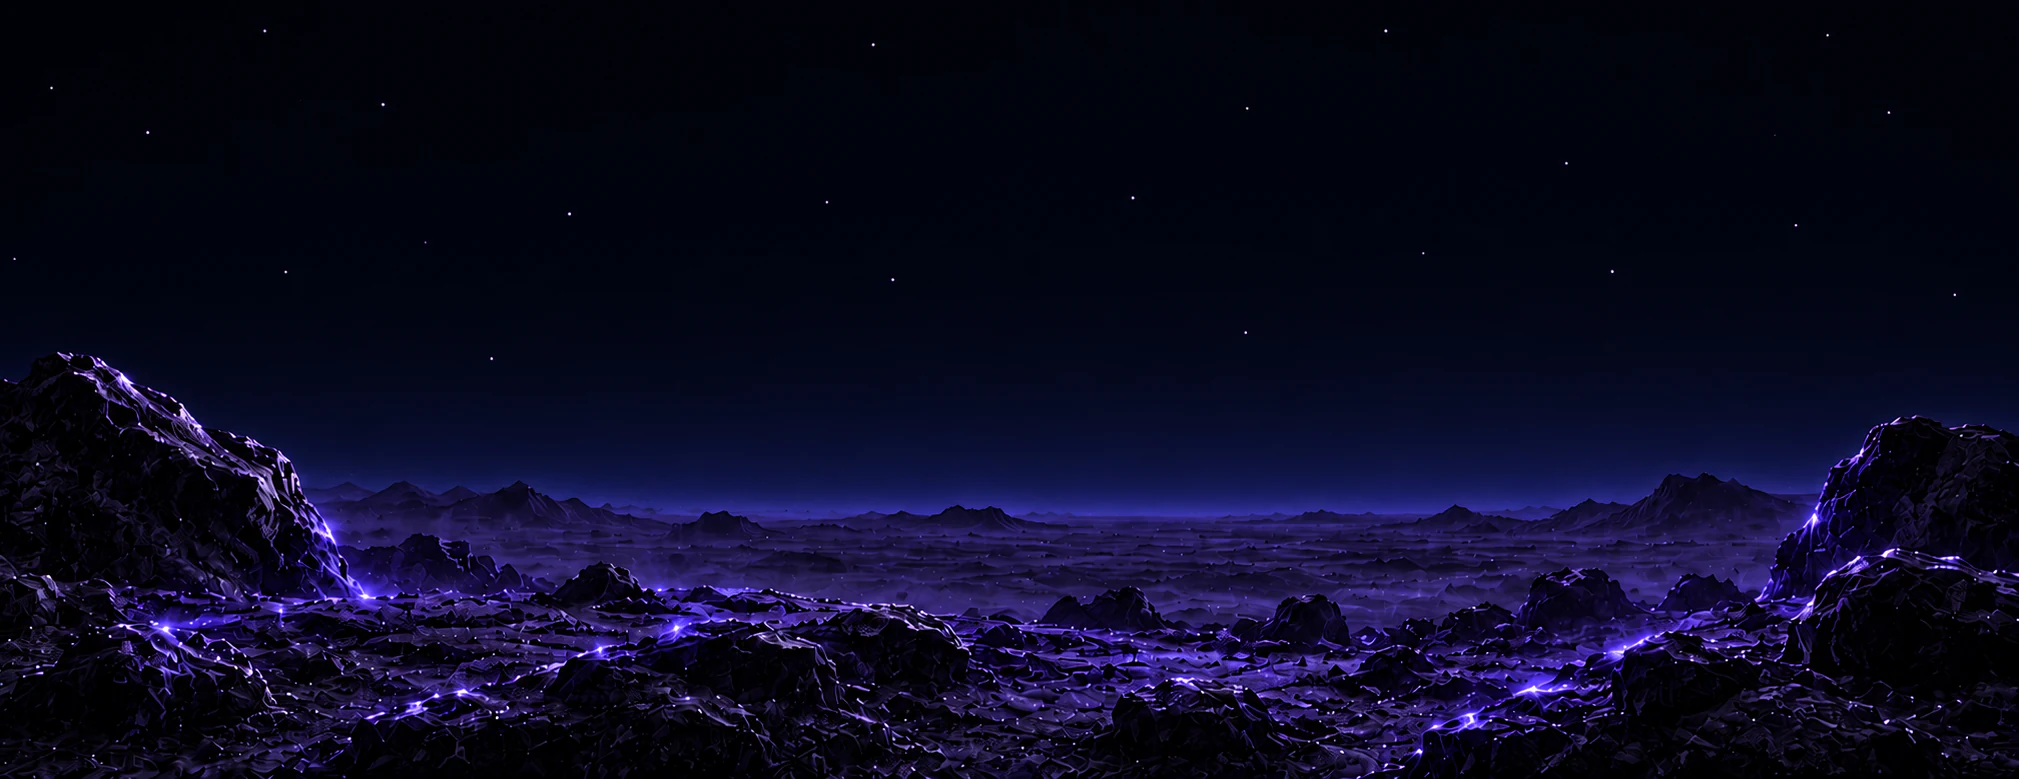
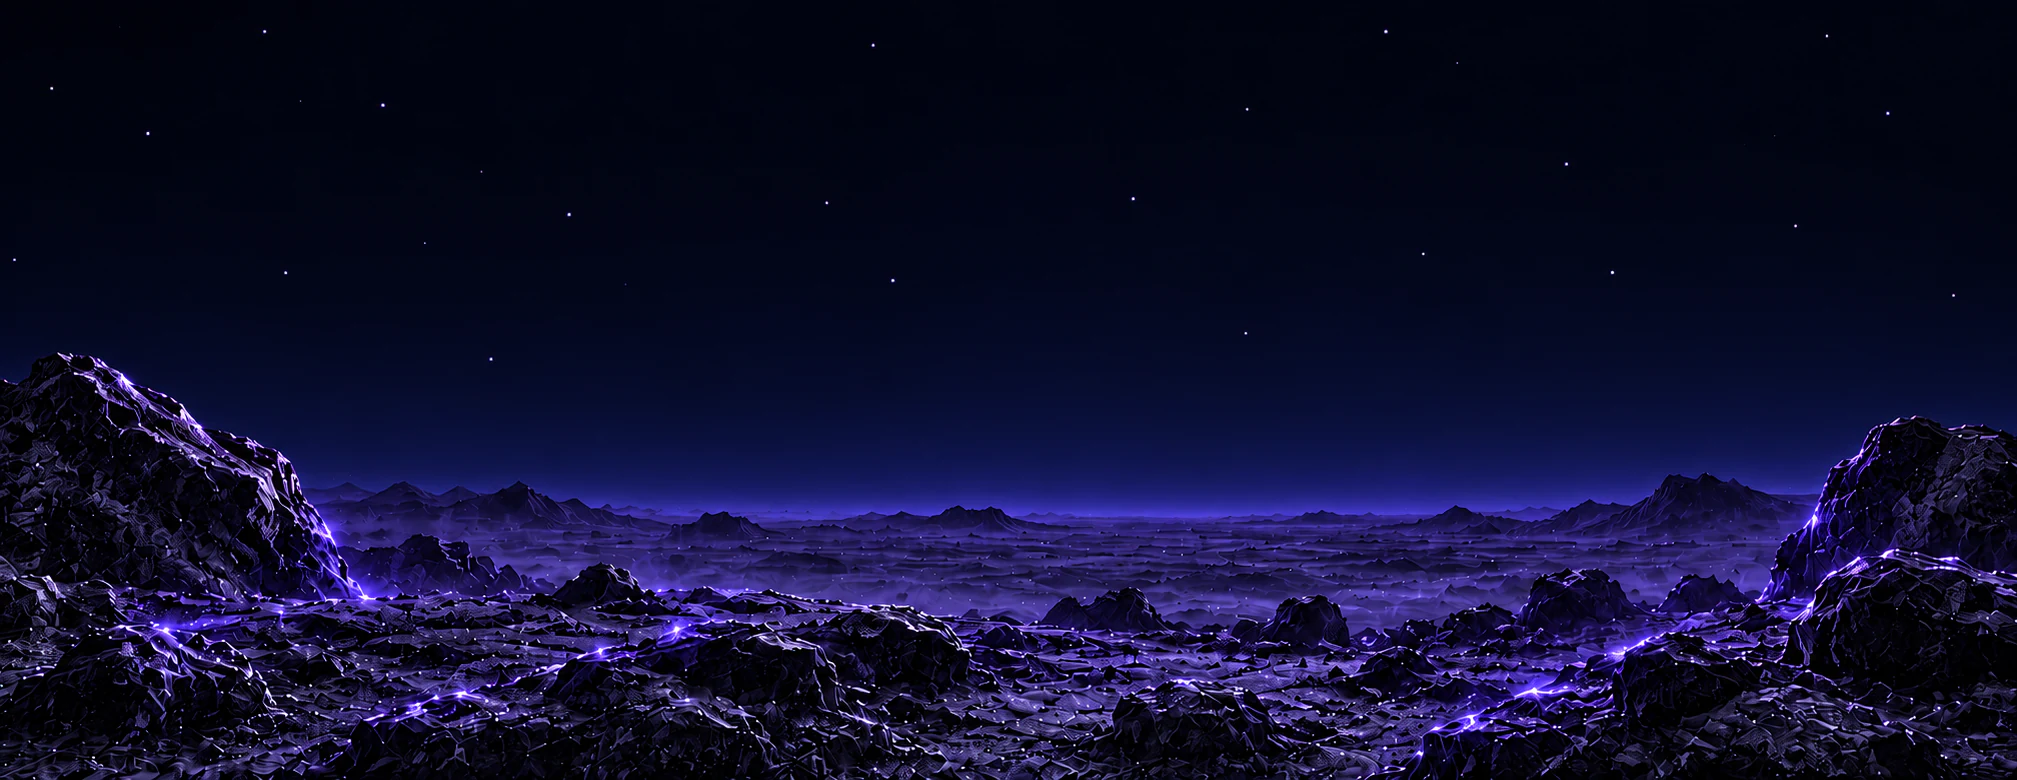
feat(footer): HD backdrop + portrait art so phones stop zooming it
Desktop/tablet now use the sharper, brighter supplied footerhd.png at
native resolution (footer.webp, q88). Phones get a generated portrait
derivative (footer-mobile.webp, 1170x3450) that extends the star sky and
anchors the landscape to the bottom, so object-fit: cover no longer zooms
~1.33x and upscales ~4x at DPR3. Adds scripts/generate-footer-background.mjs
(npm run assets:footer); generate-backgrounds.mjs no longer handles footer.

Changed region(s): [[0.0, 0.4621, 1.0, 1.0], [0.937, 0.5237, 0.9683, 0.5546]]

diff --git a/docs/assets.md b/docs/assets.md
@@ -625,16 +625,29 @@ score were unchanged when this section was added.
 - Row 2: 1px divider `rgb(203 197 255 / 30%)` at y=463.69, then the legal bar at
   y=484.69 — copyright at x=80 (320 wide) and Terms/Privacy/Cookies at x=640.72
   (218 wide), Manrope Regular 16/24.
-- The background comes from the supplied HD Figma image (`assets/assets home page/footer/Gambar Footer.png`,
-  5760 × 2224) re-encoded to the shared lossy
-  `public/images/backgrounds/footer.webp` (q88) by
-  `scripts/generate-backgrounds.mjs`; the earlier lossless 1440/2880 exports
-  under `public/images/footer/` were removed on 26 Sep 2026. The supplied
-  artwork sits 2px (4px at 2×) right of the fill baked into `Footer.png`; that
-  sub-pixel-derived offset is baked into the export so the art still aligns
-  with the reference. `instagram.svg` and `linkedin.svg` are the Figma social vectors.
-  Text, borders, divider, and social frames are HTML/CSS; no flattened
-  screenshot is used as the interface.
+- The background comes from the supplied HD Figma image
+  (`assets/assets home page/footer/footerhd.png`, 2017 × 780 — same composition
+  as `assets/background/hd/footer.png` but a sharper, brighter render). It is
+  encoded by `scripts/generate-footer-background.mjs` (`npm run assets:footer`)
+  to the shared lossy `public/images/backgrounds/footer.webp` (q88, MAE 1.21);
+  the earlier lossless 1440/2880 exports under `public/images/footer/` were
+  removed on 26 Sep 2026. `scripts/generate-backgrounds.mjs` no longer touches
+  the footer. The supplied artwork sits 2px (4px at 2×) right of the fill baked
+  into `Footer.png`; that sub-pixel-derived offset is baked into the export so
+  the art still aligns with the reference. `instagram.svg` and `linkedin.svg`
+  are the Figma social vectors. Text, borders, divider, and social frames are
+  HTML/CSS; no flattened screenshot is used as the interface.
+- **Phone portrait backdrop (26 Sep 2026):** the 2.59:1 landscape cannot cover a
+  portrait footer (≈390 × 1033 at ≤600px) without `object-fit: cover` zooming
+  ~1.33× and stretching to 1170 device px at DPR 3 (~4× upscale → visibly soft).
+  `Footer.astro` now has a `<source media="(max-width: 600px)">` swapping to a
+  generated portrait derivative `public/images/backgrounds/footer-mobile.webp`
+  (1170 × 3450, q84, 86 KB): an extended star sky (gradient zenith→seam with
+  ±1 dither, the site's `starfield-base.png` tiled in `screen`) with the
+  landscape scaled `MW × 1.35` and anchored to the bottom edge
+  (`.backdrop img { object-position: center bottom }` ≤600px). Desktop keeps the
+  full landscape at native resolution, so `verify.mjs` footer geometry/diff is
+  unchanged.
 - Social, Navigation, Terms, Privacy, and Cookies destinations were not
   supplied, so they keep the preview's unavailable state. Below desktop width
   the columns wrap and then stack; no mobile Figma reference was supplied.

diff --git a/docs/ai-handoff.md b/docs/ai-handoff.md
@@ -53,6 +53,15 @@ hero-bg.webm` (0.51 MB) + `hero-bg.mp4` (1.32 MB) + `hero-poster.webp` (48 KB),
   audio dibuang. Loop **crossfade circular** 1s (seam 7.24 → 1.18/255, tanpa
   membalik aurora). Gating ≥601px + no-preference + bukan saveData; reduce/≤600px
   tetap statis (gate `verify` aman). Pause off-screen + tab hidden.
+- **Footer HD + backdrop portrait HP (26 Sep 2026):** background pakai
+  `footerhd.png` yang lebih tajam/terang lewat
+  `scripts/generate-footer-background.mjs` (`npm run assets:footer`) →
+  `footer.webp` (q88, MAE 1.21). Di mobile landscape 2.59:1 tak bisa nutup footer
+  portrait tanpa zoom `cover` ~1.33× → upscale ~4× @DPR3 (itu penyebab "burik").
+  `Footer.astro` sekarang punya `<source media="(max-width:600px)">` ke
+  `footer-mobile.webp` (1170×3450, q84, 86 KB) — langit bintang + landscape
+  di-anchor bawah (`object-position: center bottom`). Desktop tetap landscape
+  native, geometri/diff `verify.mjs` tidak berubah.
 - **Pass responsive + performa mobile (25 Sep 2026):** particle Three.js kini
   desktop-only (`min-width: 768px`), navbar HP blur 12px tanpa morph layout 0.9s,
   scrim hero HP + figur satu aturan `height:72%; object-position:59% bottom`,

diff --git a/AGENTS.md b/AGENTS.md
@@ -89,6 +89,7 @@ scripts/generate-star-tiles.mjs  What We Do starfield tiles (Chromium)
 scripts/starfield-patterns.mjs   gradient source for the starfield tiles
 scripts/generate-hero-video.mjs  home hero bg clip (boomerang webm/mp4 + poster)
 scripts/generate-recruitment-hero-video.mjs  recruitment hero bg (crossfade loop)
+scripts/generate-footer-background.mjs  footer bg: sharp desktop + portrait phone variant
 scripts/navbar-audit.mjs  navbar states/containment/hug across widths
 scripts/perf-audit.mjs   scroll-jank + long-task report per section
 scripts/seo-audit.mjs    validates title/meta/OG/canonical/sitemap in dist/
